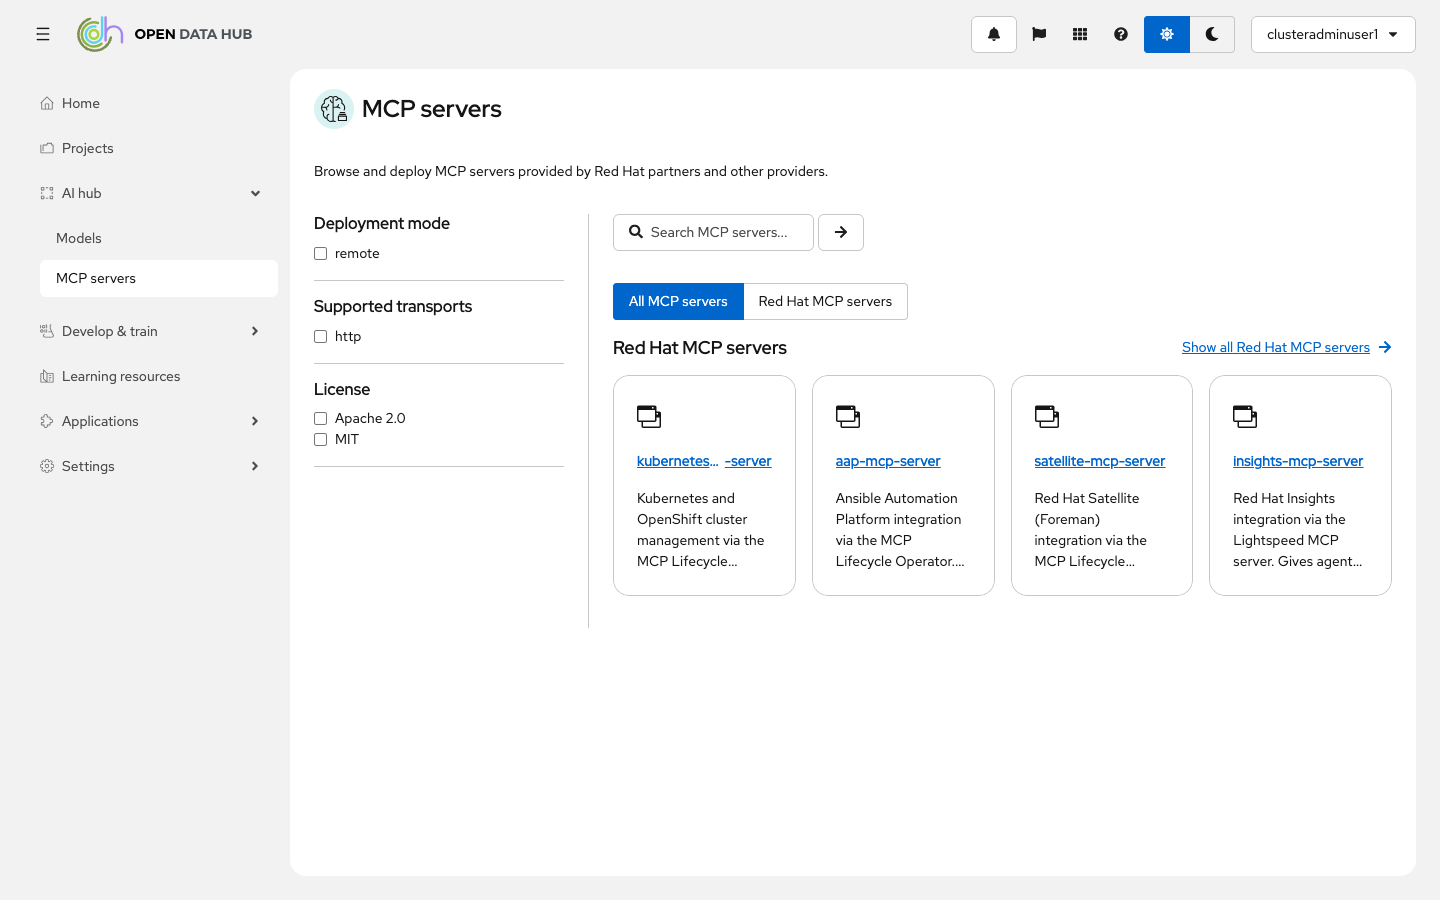
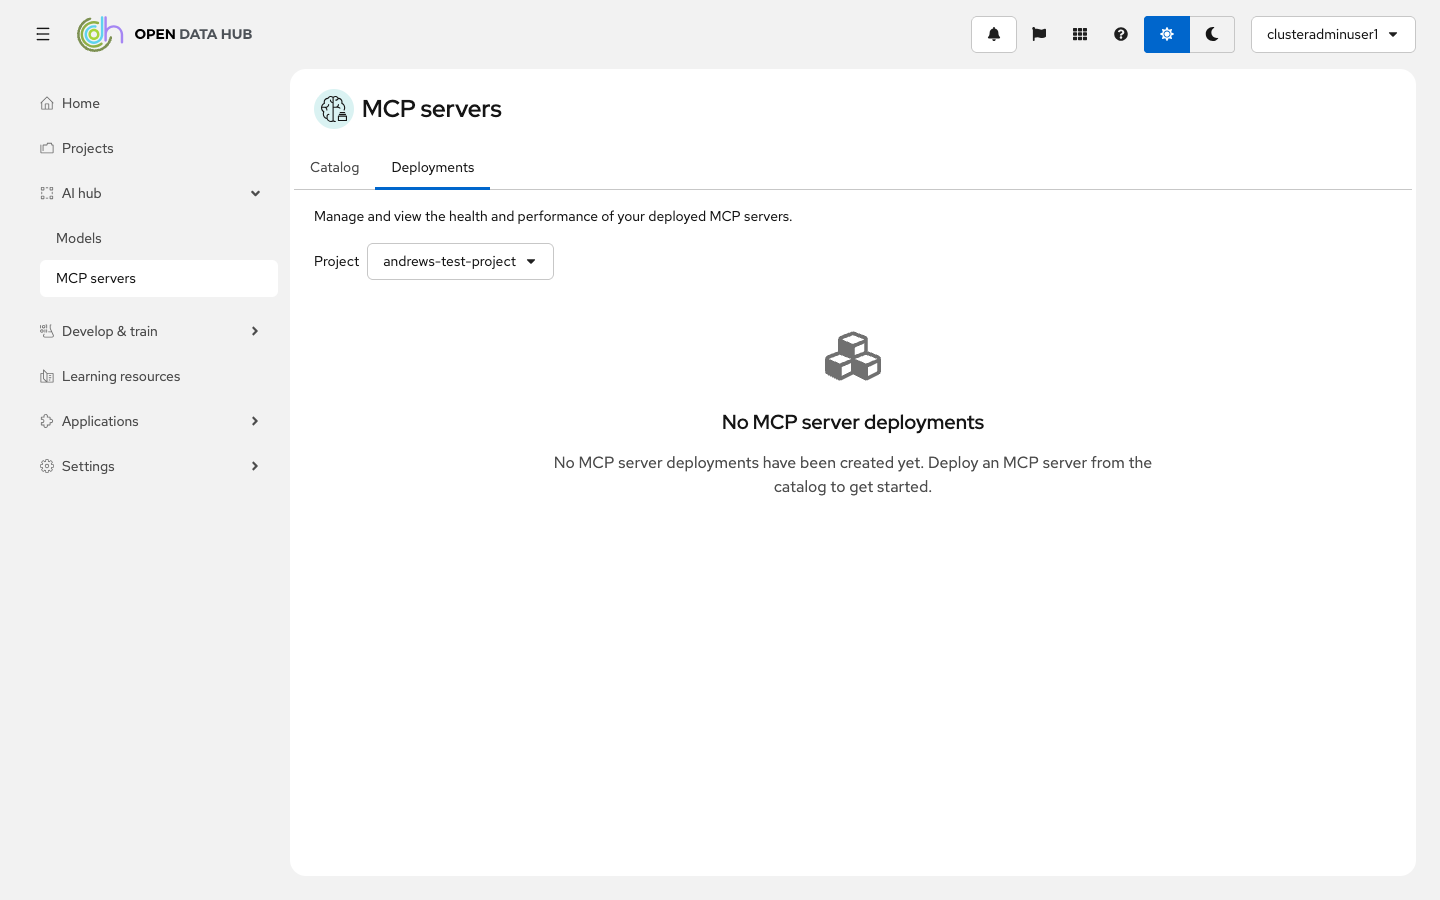
Update screenshots for MCP Deployments tab
MCP servers page now has two tabs (Catalog / Deployments). Updated:
- 04-mcp-servers-redirect: now shows 2-tab bar
- 04-mcp-servers-catalog: new screenshot of Catalog tab
- 04b-mcp-servers-deployments: new screenshot of Deployments tab
- 08b-redirect-mcp-deployments: new redirect from /ai-hub/mcp-deployments
- 18-subpage-mcp-server-detail: now shows tab bar on detail page
- 21-nav-mcp-highlighted: updated with tab bar visible
- summary.md: updated descriptions for all MCP-related sections

diff --git a/summary.md b/summary.md
@@ -27,9 +27,19 @@ Deployments renders, Deployments tab highlighted.
 ![Deployments tab](03-models-deployments.png)
 
 ### `/ai-hub/mcp-servers` (redirects to `/ai-hub/mcp-servers/catalog`)
-Confirmed redirect. "MCP servers" page title, **no tab bar** (single tab behavior).
+Confirmed redirect. "MCP servers" page title with 2-tab bar: Catalog / Deployments.
 
 ![MCP servers redirect](04-mcp-servers-redirect.png)
+
+### `/ai-hub/mcp-servers/catalog` — Catalog tab active
+MCP Catalog renders with 2-tab bar.
+
+![MCP servers catalog](04-mcp-servers-catalog.png)
+
+### `/ai-hub/mcp-servers/deployments` — Deployments tab active
+MCP Deployments renders, Deployments tab highlighted. No redundant title (suppressed via `noTitle`).
+
+![MCP servers deployments](04b-mcp-servers-deployments.png)
 
 ---
 
@@ -43,6 +53,7 @@ All redirects confirmed working:
 | `/ai-hub/registry` | `/ai-hub/models/registry/test-registry` | ![](06-redirect-registry.png) |
 | `/ai-hub/deployments` | `/ai-hub/models/deployments` | ![](07-redirect-deployments.png) |
 | `/ai-hub/mcp-catalog` | `/ai-hub/mcp-servers/catalog` | ![](08-redirect-mcp-catalog.png) |
+| `/ai-hub/mcp-deployments` | `/ai-hub/mcp-servers/deployments` | ![](08b-redirect-mcp-deployments.png) |
 | `/modelServing` | `/ai-hub/models/deployments` | ![](09-redirect-modelServing.png) |
 
 ---
@@ -55,7 +66,7 @@ Redirects to last-visited tab (session storage). In this case it went to `/ai-hu
 ![Invalid tab models](10-invalid-tab-models.png)
 
 ### `/ai-hub/mcp-servers/nonexistent-tab`
-Redirects to `/ai-hub/mcp-servers/catalog` (default/only tab).
+Redirects to `/ai-hub/mcp-servers/catalog` (default tab).
 
 ![Invalid tab MCP](11-invalid-tab-mcp.png)
 
@@ -94,7 +105,7 @@ Deploy wizard renders with step navigation. No tab bar on this page.
 ![Deploy wizard](17-subpage-deploy-wizard.png)
 
 ### MCP Server Detail — `/ai-hub/mcp-servers/catalog/{id}`
-"MCP servers" title (no tab bar), breadcrumb "MCP Catalog > kubernetes-mcp-server".
+"MCP servers" title with tab bar (Catalog / Deployments), breadcrumb "MCP Catalog > kubernetes-mcp-server".
 
 ![MCP server detail](18-subpage-mcp-server-detail.png)
 
